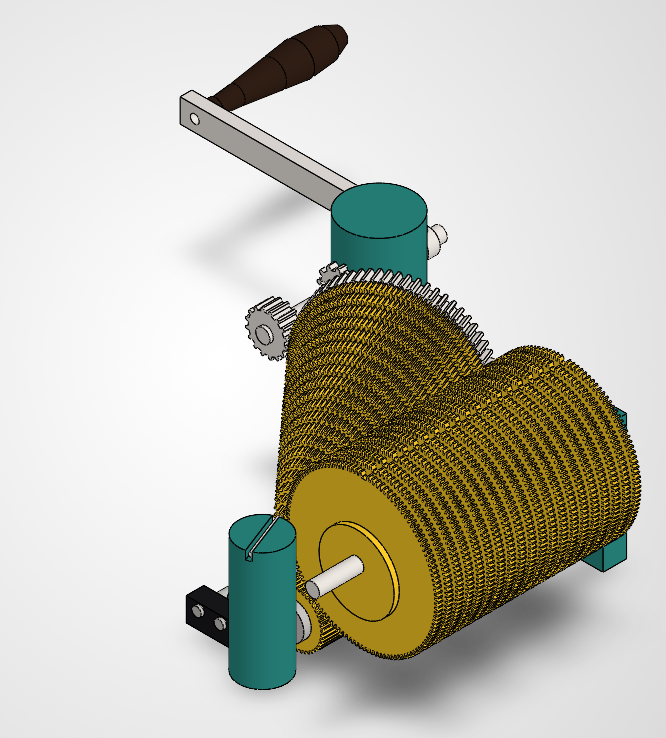
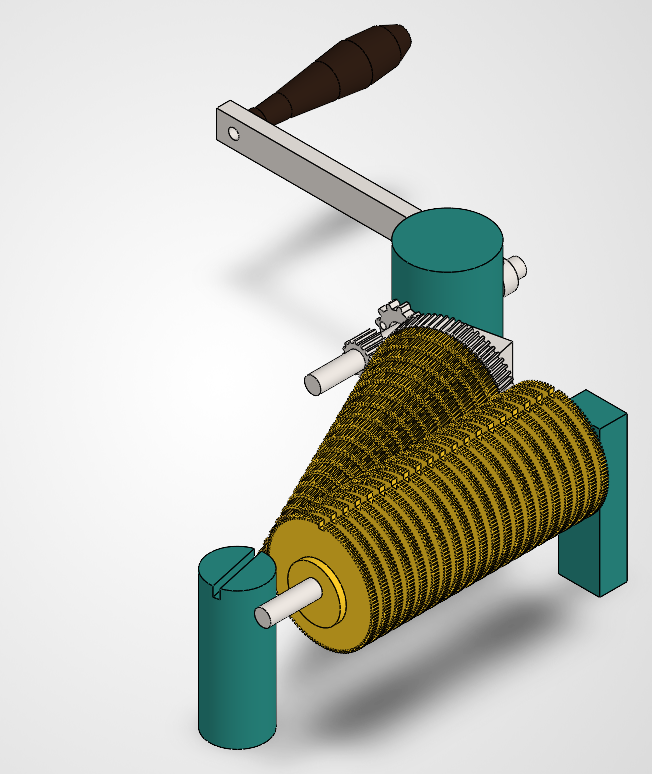
drive-train: rebuild clean at OD 62.2 (no pinion), muntz tip gears
- export_part_stls.py: bootstrap a base-part STL bbox for every part doc, so
  a fresh/wiped cad/out/stl can build assemblies (export_models is manifest-
  only and misses the drive-train support parts -> mirror_placement FileNotFound).
- knob-post: derive KNOB_POST_STATION from the gear-stack end (last cone face +
  post half-footprint + clearance) instead of the photo-scaled 177; the wider
  re-anchored seat pitch (6.589->6.889) had pushed T006 into it (~0.7 mm^3).
- refresh the stale incline comments (now 12.518 deg / SEAT_PITCH 6.889; the
  literals were the retired DP-30 21.10 deg values).
Result: 52 components fully defined, zero interference, 4 tip gears tinted.

Claude-Session: https://claude.ai/code/session_01PinySgchMGgaanEA593N4Q

diff --git a/cad/scripts/build_drive_train_assembly.py b/cad/scripts/build_drive_train_assembly.py
@@ -143,18 +143,19 @@ CONE_T120_PITCH_R = (120.0 / DP_TRAIN) * 25.4 / 2.0  # 30.59: largest cone gear 
 
 # Frame-locked machine grid (M6.3 lineage -- the drum planes anchor the
 # gates, cams, rockers and bars; nothing here may move them).
-_DRUM_SEAT_NOMINAL = _config.machine("cone_incline", "drum_seat_nominal_mm")  # 7.5
-Z_PITCH = _DRUM_SEAT_NOMINAL * math.cos(math.asin(RADIUS_STEP / _DRUM_SEAT_NOMINAL))  # 7.0568: drum z-pitch
+_DRUM_SEAT_NOMINAL = _config.machine("cone_incline", "drum_seat_nominal_mm")  # 7.2204 (OD 62.2)
+Z_PITCH = _DRUM_SEAT_NOMINAL * math.cos(math.asin(RADIUS_STEP / _DRUM_SEAT_NOMINAL))  # 7.0566: drum z-pitch
 X_DRUM = -47.5  # rocker-support boss bore + arbor pedestal
 Z_DRUM0 = _config.machine("channels", "station_z0_mm")  # -67.1 drum gear 0 plane (shared station anchor)
 
-# True-cone incline (M6.7, exact tracking -- see module docstring).
-SIN_I = RADIUS_STEP / Z_PITCH  # 0.35993
-COS_I = math.sqrt(1.0 - SIN_I * SIN_I)  # 0.93299
+# True-cone incline (M6.7, exact tracking -- see module docstring). Values are
+# at the OD-62.2 / DP 49.82 re-anchor (was 21.10 deg at the retired DP 30).
+SIN_I = RADIUS_STEP / Z_PITCH  # 0.21675
+COS_I = math.sqrt(1.0 - SIN_I * SIN_I)  # 0.97623
 TAN_I = SIN_I / COS_I
 SEC_I = 1.0 / COS_I
-INCLINE_DEG = math.degrees(math.asin(SIN_I))  # 21.0976
-SEAT_PITCH = Z_PITCH * COS_I  # 6.5839: seat pitch along the shaft
+INCLINE_DEG = math.degrees(math.asin(SIN_I))  # 12.5182
+SEAT_PITCH = Z_PITCH * COS_I  # 6.8888: seat pitch along the shaft
 
 CONE_FACE = 6.5  # M6.7 mesh packing (annotated 7 -- build_cone_gear.py)
 GEAR64_FACE = 10.0
@@ -171,10 +172,10 @@ PINION_FACE = 12.0
 # teeth barely drift out of the drum band) -- 0.15 left <=0.06 mm^3
 # flank slivers at the five smallest stations, 0.35 still skinned the
 # last four.
-DRUM_TIP_X = X_DRUM + (122.0 / DP_TRAIN) * 25.4 / 2.0  # 4.147
+DRUM_TIP_X = X_DRUM + (122.0 / DP_TRAIN) * 25.4 / 2.0  # -16.40 at DP 49.82
 PEN_EDGE_SLACK = _config.fit("cone_drum_oblique_mesh", "edge_slack_mm")  # cad/config/tolerances.yaml
 PEN_MID = WORKING_DEPTH - PEN_EDGE_SLACK - (DRUM_FACE / 2.0) * TAN_I  # 0.565
-X_PITCH = DRUM_TIP_X + ADDENDUM * SEC_I - PEN_MID  # 4.490
+X_PITCH = DRUM_TIP_X + ADDENDUM * SEC_I - PEN_MID  # -16.01 at DP 49.82
 
 
 def cone_seat(j: int) -> tuple[float, float]:
@@ -259,7 +260,13 @@ if PINION_TOOTH_Z + PINION_FACE / 2.0 > CRANKSHAFT_Z0 + CRANKSHAFT_LENGTH:
 # engaging the first 9 mm of the journal bore (blind-bearing look,
 # p.18: the shaft end disappears into the black bracket).
 PIVOT_POST_STATION = -1.0
-KNOB_POST_STATION = 177.0  # thin-tip journal; z 90.0, x -2.1 (p.18)
+# Thin-tip journal support (p.18: z 90.0, x -2.1, originally photo-scaled to 177).
+# The OD-62.2 re-anchor widened SEAT_PITCH (6.589 -> 6.889), pushing the T006 tip
+# gear's far face out to ~162.4, so the post's inboard half clipped it (~0.7 mm^3).
+# Derive it just past the gear stack instead: last cone face + the post's ~16 mm
+# half-footprint (cone-knob-post STL is +/-16) + 2.5 mm clearance. Lands ~181,
+# still on the 1/32" shaft tip (155.7-190), and tracks any future pitch change.
+KNOB_POST_STATION = SHAFT_T120_STATION + 19 * SEAT_PITCH + CONE_FACE / 2.0 + 16.0 + 2.5  # ~180.9
 
 # --- alignment pinion: REMOVED 2026-06-18 ---------------------------
 # The 42T zeroing pinion no longer fits the rescaled frame at OD 62.2:

diff --git a/cad/scripts/export_part_stls.py b/cad/scripts/export_part_stls.py
@@ -1,0 +1,75 @@
+r"""Bootstrap a base-part STL (mm, fine, untranslated) for every part document
+in cad/out/sldprt that lacks a fresh one.
+
+``mirror_placement`` mirrors each component about the machine YZ plane and reads
+the part's STL bbox (``stl_bbox_mm``) to find the mirror centre. ``export_models``
+only exports the parts/assemblies named in comparisons/manifest.json, so the
+drive-train support parts (pedestals, posts, shafts) -- which are not in the
+manifest -- have no STL. On a fresh checkout, or after the gitignored
+cad/out/stl cache is wiped, the first assembly build then dies with
+``FileNotFoundError`` on the first such part. This fills that gap: one STL per
+present part document, enough for every assembly to compute its mirror centres.
+The richer per-configuration STLs + STEP + scene boxes still come from
+``export_models.py`` (driven by the comparison manifest).
+
+Run (SolidWorks already open)::
+
+    C:\src\SolidworksMCP-python\.venv\Scripts\python.exe cad\scripts\export_part_stls.py [--force]
+"""
+
+from __future__ import annotations
+
+import sys
+from pathlib import Path
+
+sys.path.insert(0, str(Path(__file__).resolve().parent))
+
+from _common import OUT_STL, check, log, run_build  # noqa: E402
+from export_models import (  # noqa: E402
+    OUT_SLDPRT,
+    doc_rgb,
+    load_colors,
+    restore_export_prefs,
+    save_colors,
+    set_export_prefs,
+)
+
+
+def _stale(stem: str) -> bool:
+    stl = OUT_STL / f"{stem}.STL"
+    src = OUT_SLDPRT / f"{stem}.SLDPRT"
+    return not stl.exists() or stl.stat().st_mtime < src.stat().st_mtime
+
+
+async def build(adapter):
+    OUT_STL.mkdir(parents=True, exist_ok=True)
+    colors = load_colors()
+    force = "--force" in sys.argv[1:]
+    todo = [p.stem for p in sorted(OUT_SLDPRT.glob("*.SLDPRT")) if force or _stale(p.stem)]
+    if not todo:
+        print("all part STLs fresh")
+        return {}
+    print(f"exporting {len(todo)} part STLs: {todo}")
+    old = set_export_prefs(adapter)
+    done: dict[str, str] = {}
+    try:
+        for stem in todo:
+            src = OUT_SLDPRT / f"{stem}.SLDPRT"
+            check(f"open {src.name}", await adapter.open_model(str(src)))
+            doc = adapter.currentModel
+            out = OUT_STL / f"{stem}.STL"
+            doc.SaveAs3(str(out), 0, 0)
+            if not out.exists():
+                raise RuntimeError(f"SaveAs3 produced no file: {out}")
+            colors[stem] = doc_rgb(doc)
+            log(f"saved {out.name} ({out.stat().st_size / 1e6:.1f} MB) rgb={colors[stem]}")
+            adapter._attempt(lambda: adapter.swApp.CloseAllDocuments(True), default=None)
+            done[stem] = str(out)
+    finally:
+        restore_export_prefs(adapter, old)
+        save_colors(colors)
+    return done
+
+
+if __name__ == "__main__":
+    raise SystemExit(run_build(build))
